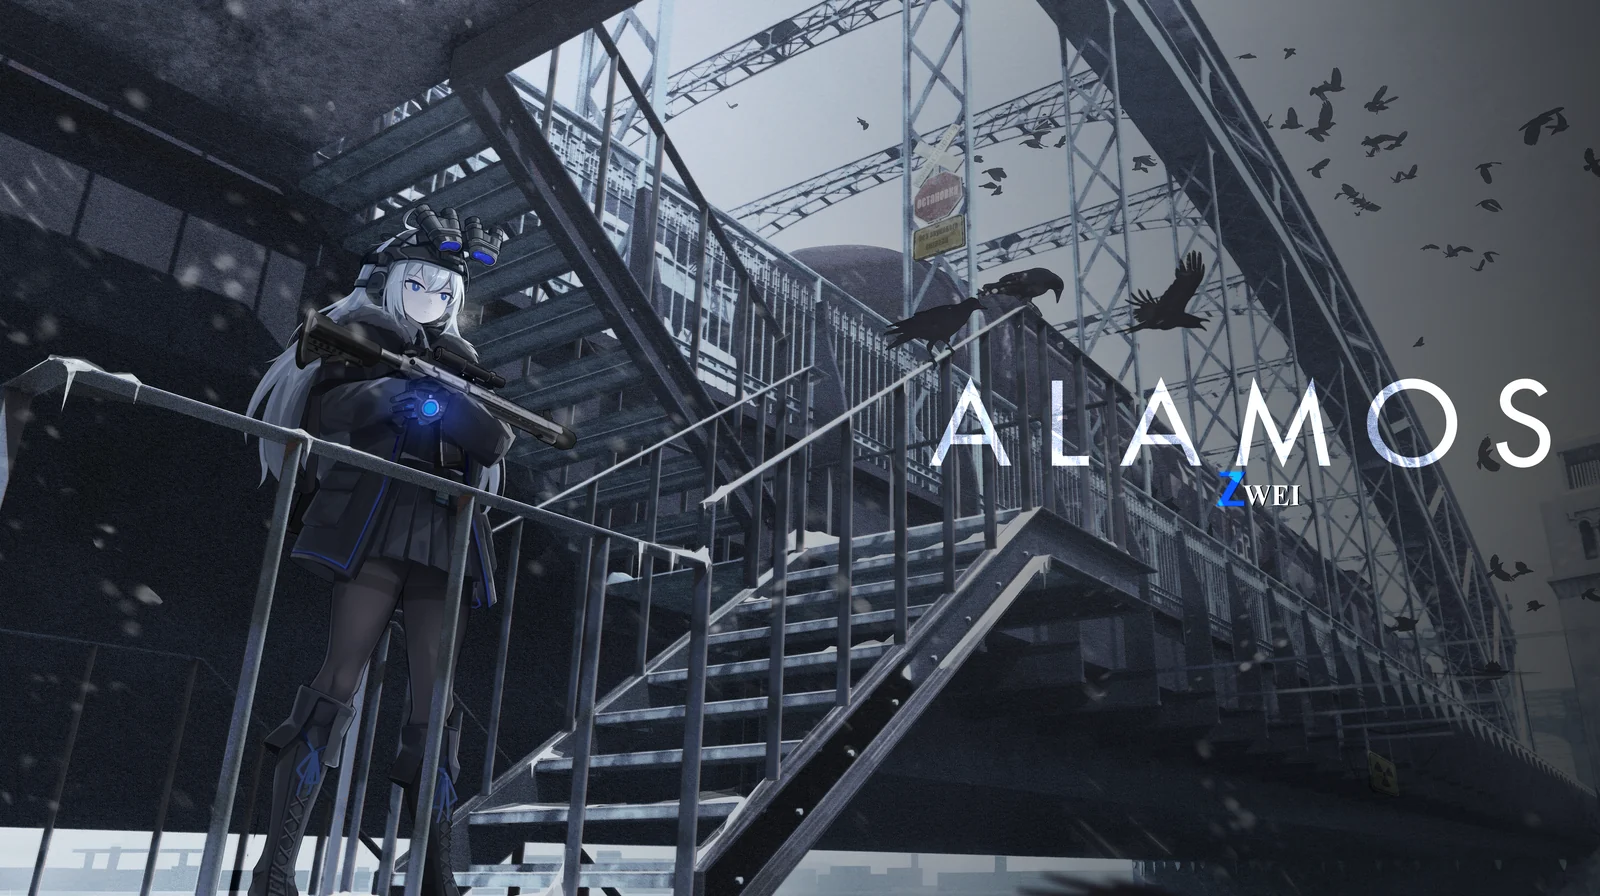
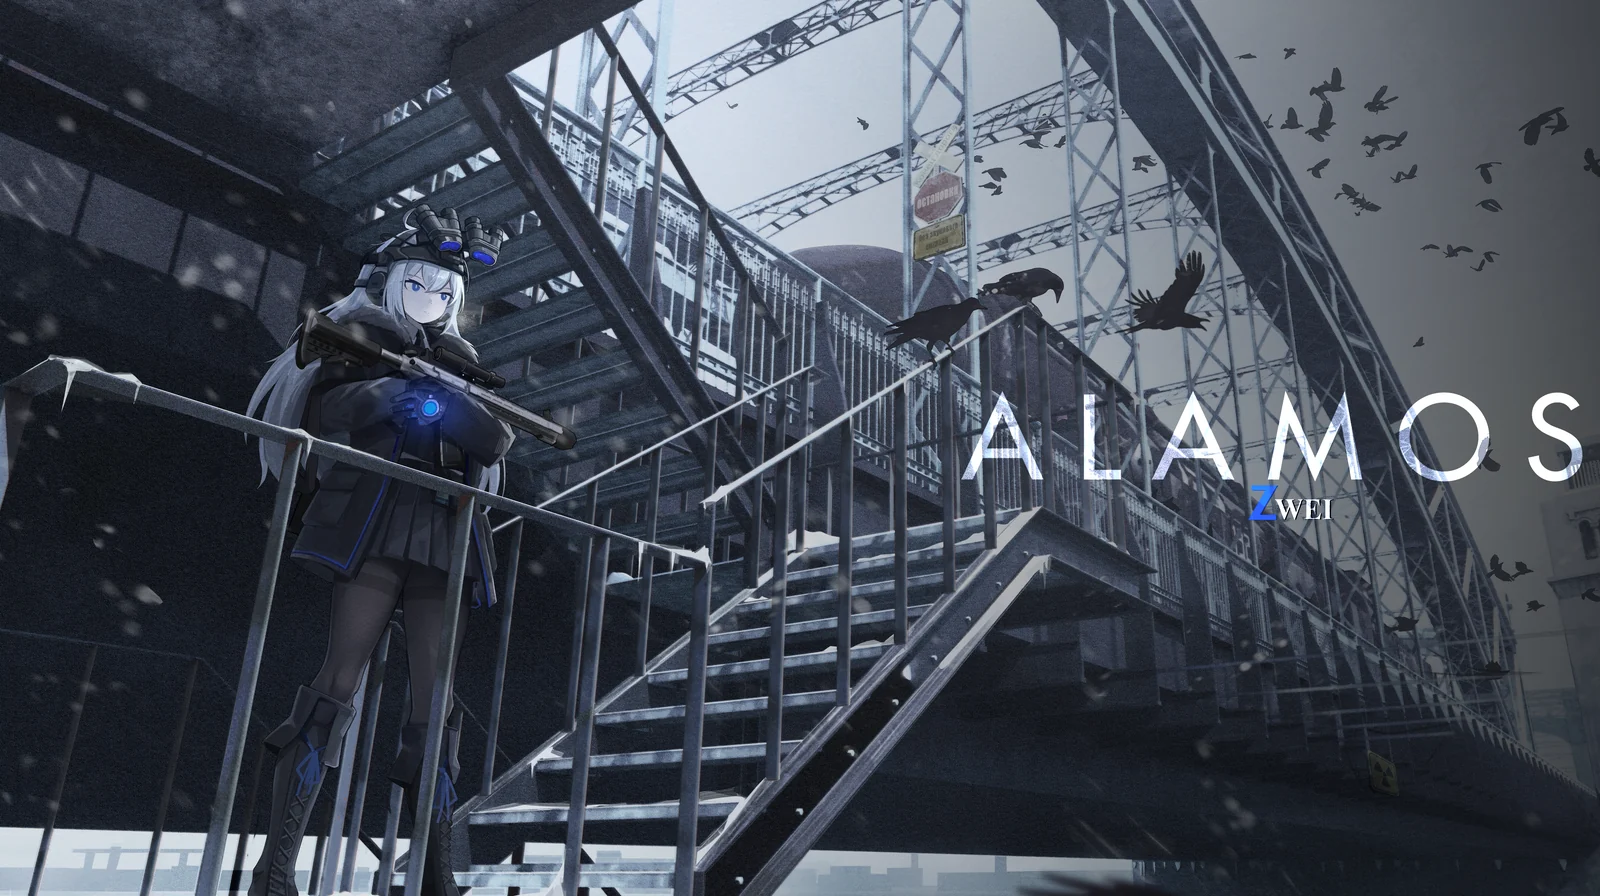
Update key visual lighting and improve mobile readability

Changed region(s): [[0.5625, 0.4062, 1.0, 0.5938]]

diff --git a/index.html b/index.html
@@ -1,6 +1,6 @@
-<!doctype html><html lang="zh-CN"><head><meta charset="utf-8"><meta name="viewport" content="width=device-width,initial-scale=1"><meta name="theme-color" content="#0a1119"><meta name="description" content="ALAMOS: ZWEI 项目情报站。北德文斯克、冰星防卫与尚未揭开的秘密。"><title>ALAMOS: ZWEI — 项目情报站</title><link rel="stylesheet" href="site.css?v=drift-dock-off-20260922"></head><body>
+<!doctype html><html lang="zh-CN"><head><meta charset="utf-8"><meta name="viewport" content="width=device-width,initial-scale=1"><meta name="theme-color" content="#0a1119"><meta name="description" content="ALAMOS: ZWEI 项目情报站。北德文斯克、冰星防卫与尚未揭开的秘密。"><title>ALAMOS: ZWEI — 项目情报站</title><link rel="stylesheet" href="site.css?v=mobile-20260928"></head><body>
 
-<main><section id="home" class="hero"><img class="hero-bg" src="assets/hero-kv2-static-1600.webp?v=kv2-root-20260922" srcset="assets/hero-kv2-static-960.webp?v=kv2-root-20260922 960w, assets/hero-kv2-static-1600.webp?v=kv2-root-20260922 1600w, assets/hero-kv2-static-2400.webp?v=kv2-root-20260922 2400w" sizes="(max-width:760px) 180svh, 100vw" alt="冰雪中的工业阶梯、持枪行动者与飞鸟" loading="eager" fetchpriority="high"><div class="hero-color-mark" aria-hidden="true"></div><div class="hero-content"><p class="hero-sub">NEXT GEN ROLE-PLAY SHOOTER</p><a class="hero-link" href="#characters">浏览情报 <span>↓</span></a></div><div class="hero-bottom"><span>SEVERODVINSK / ARCTIC REGION</span><span>SCROLL TO EXPLORE <b>↓</b></span></div></section>
+<main><section id="home" class="hero"><img class="hero-bg" src="assets/hero-kv2-static-1600.webp?v=kv2-light-20260928" srcset="assets/hero-kv2-static-960.webp?v=kv2-light-20260928 960w, assets/hero-kv2-static-1600.webp?v=kv2-light-20260928 1600w, assets/hero-kv2-static-2400.webp?v=kv2-light-20260928 2400w" sizes="100vw" width="2400" height="1344" alt="冰雪中的工业阶梯、持枪行动者与飞鸟" loading="eager" fetchpriority="high"><div class="hero-color-mark" aria-hidden="true"></div><div class="hero-content"><p class="hero-sub">NEXT GEN ROLE-PLAY SHOOTER</p><a class="hero-link" href="#characters">浏览情报 <span>↓</span></a></div><div class="hero-bottom"><span>SEVERODVINSK / ARCTIC REGION</span><span>SCROLL TO EXPLORE <b>↓</b></span></div></section>
 <section id="story" class="story"><div class="section-kicker"><span>01 / WORLD</span><span>AFTER THE COLD WAR</span></div><div class="story-opening"><p class="micro">WORLD</p><h2>世界</h2><p>核事故引发的大爆炸终结了冷战，半个世界沦为废土。</p><p>60年后，脱胎于冷战双方的新势力开始争夺遗留科技与新秩序的霸权。各大私营军事公司的佣兵，通过对污染区的勘察和博弈，逐渐走上世界的舞台。</p><div class="scene-controls" role="group" aria-label="切换世界影像"><button id="world-prev" aria-label="上一张世界影像">←</button><span id="world-count" aria-live="polite">01 / 02</span><button id="world-next" aria-label="下一张世界影像">→</button></div></div></section>
 <section id="characters" class="personnel"><div class="section-kicker"><span>02 / PERSONNEL ARCHIVES</span><span>人物与阵营</span></div><div class="section-top"><div><p class="micro">PERSONNEL</p><h2>人物</h2></div></div><div id="faction-tabs" class="faction-tabs" role="tablist" aria-label="选择阵营"></div><div id="faction-panel" role="tabpanel"><div class="faction-intro"><p id="faction-description"></p><span id="faction-count"></span></div><div id="person-tabs" class="person-tabs archive-roster" role="tablist" aria-label="选择人物档案"></div><div id="archive-person" class="person-stage" role="tabpanel"></div></div></section>
 <div class="region"><img class="region-bg" src="assets/web/lib-09-large-1600.webp" srcset="assets/web/lib-09-large-1600.webp 1600w, assets/web/lib-09-large-2400.webp 2400w" sizes="(max-width:760px) 180svh, 100vw" alt="北德文斯克雪原与塔架" loading="lazy"><div class="region-shade"></div><div class="region-caption"><p class="micro">ARCTIC / SEVERODVINSK</p><h3>北德文斯克</h3><p>由于不明事故，冰星防卫（IND）仅剩余一名新晋外勤员工前往调查情报称欧洲地区可能仅存一座的完整核反应堆。</p><p>其位于前苏联最大的造船之城，也曾坐落世界最大核潜艇的生产基地——北德文斯克。</p></div><div class="scene-controls" role="group" aria-label="切换城市影像"><button id="scene-prev" aria-label="上一张城市影像">←</button><span id="scene-count" aria-live="polite">01 / 08</span><button id="scene-next" aria-label="下一张城市影像">→</button></div></div>

diff --git a/site.css b/site.css
@@ -1118,7 +1118,7 @@ html {
 
 /* Fit the whole painting without letterboxing; the section follows its ratio. */
 .hero { height:auto; min-height:0; max-height:none; aspect-ratio:25/14; display:block; }
-.hero::before { content:""; position:absolute; inset:0; background:url("assets/hero-kv2-static-1600.webp?v=kv2-root-20260922") center/100% 100% no-repeat; pointer-events:none; }
+.hero::before { content:""; position:absolute; inset:0; background:url("assets/hero-kv2-static-1600.webp?v=kv2-light-20260928") center/100% 100% no-repeat; pointer-events:none; }
 .hero-bg { inset:0; width:100%; height:100%; object-fit:fill; object-position:center; transform:translate3d(var(--drift-x,0px),var(--drift-y,0px),0); }
 .hero-content { top:50%; bottom:auto; left:var(--pad); padding:0; width:auto; transform:translateY(-50%); }
 .hero-snow { position:absolute; inset:0; width:100%; height:100%; pointer-events:none; z-index:1; }
@@ -4750,4 +4750,35 @@ body.archive-switcher-open {
   .section-top .signal-chapter {
     font-size: 48px;
   }
+}
+
+
+/* Mobile readability without cropping the original title-bearing key visual. */
+html { -webkit-text-size-adjust:100%; text-size-adjust:100%; }
+@media (max-width:760px) {
+  .hero-content { top:auto; bottom:32px; left:16px; transform:none; }
+  .hero-sub { font-size:9px; line-height:1.5; letter-spacing:.04em; margin-bottom:6px; }
+  .hero-link { min-height:44px; font-size:12px; gap:14px; padding-left:12px; }
+  .hero-link>span { width:44px; min-height:44px; font-size:20px; }
+  .hero-bottom { left:16px; right:16px; bottom:7px; font-size:8px; }
+  .hero-bottom>span:last-child { display:none; }
+  .hero-color-mark { left:16px; }
+  .person-copy,.roster-card-copy,.faction-tabs>button>span { min-width:0; }
+  .person-copy h3,.person-en,.affiliation small,.roster-card-copy strong { overflow-wrap:anywhere; }
+  .person-copy h3 { font-size:clamp(25px,7.2vw,32px); }
+  .faction-tabs>button { padding:10px 9px; gap:8px; }
+  .variant button,.outline-link { min-height:44px; }
+  .album-toolbar { flex-wrap:wrap; gap:6px 10px; }
+  .album-controls { margin-left:auto; }
+  .album-hint { font-size:11px; }
+  .viewer-bar { padding-top:max(8px,env(safe-area-inset-top)); }
+  .viewer-bar>div { gap:8px; flex-wrap:wrap; }
+  .viewer-bar button,.viewer-bar a { min-height:44px; }
+  button,a,summary { touch-action:manipulation; }
+}
+@media (max-width:380px) {
+  .entry-previews img:nth-child(n+2) { display:none; }
+  .dossier-entry>summary { gap:8px; }
+  .viewer-bar { padding-left:10px; padding-right:10px; }
+  .viewer-bar>div { gap:6px; }
 }

diff --git a/styles/80-mobile.css b/styles/80-mobile.css
@@ -1,0 +1,29 @@
+/* Mobile readability without cropping the original title-bearing key visual. */
+html { -webkit-text-size-adjust:100%; text-size-adjust:100%; }
+@media (max-width:760px) {
+  .hero-content { top:auto; bottom:32px; left:16px; transform:none; }
+  .hero-sub { font-size:9px; line-height:1.5; letter-spacing:.04em; margin-bottom:6px; }
+  .hero-link { min-height:44px; font-size:12px; gap:14px; padding-left:12px; }
+  .hero-link>span { width:44px; min-height:44px; font-size:20px; }
+  .hero-bottom { left:16px; right:16px; bottom:7px; font-size:8px; }
+  .hero-bottom>span:last-child { display:none; }
+  .hero-color-mark { left:16px; }
+  .person-copy,.roster-card-copy,.faction-tabs>button>span { min-width:0; }
+  .person-copy h3,.person-en,.affiliation small,.roster-card-copy strong { overflow-wrap:anywhere; }
+  .person-copy h3 { font-size:clamp(25px,7.2vw,32px); }
+  .faction-tabs>button { padding:10px 9px; gap:8px; }
+  .variant button,.outline-link { min-height:44px; }
+  .album-toolbar { flex-wrap:wrap; gap:6px 10px; }
+  .album-controls { margin-left:auto; }
+  .album-hint { font-size:11px; }
+  .viewer-bar { padding-top:max(8px,env(safe-area-inset-top)); }
+  .viewer-bar>div { gap:8px; flex-wrap:wrap; }
+  .viewer-bar button,.viewer-bar a { min-height:44px; }
+  button,a,summary { touch-action:manipulation; }
+}
+@media (max-width:380px) {
+  .entry-previews img:nth-child(n+2) { display:none; }
+  .dossier-entry>summary { gap:8px; }
+  .viewer-bar { padding-left:10px; padding-right:10px; }
+  .viewer-bar>div { gap:6px; }
+}

diff --git a/styles/10-hero.css b/styles/10-hero.css
@@ -608,7 +608,7 @@
 
 /* Fit the whole painting without letterboxing; the section follows its ratio. */
 .hero { height:auto; min-height:0; max-height:none; aspect-ratio:25/14; display:block; }
-.hero::before { content:""; position:absolute; inset:0; background:url("assets/hero-kv2-static-1600.webp?v=kv2-root-20260922") center/100% 100% no-repeat; pointer-events:none; }
+.hero::before { content:""; position:absolute; inset:0; background:url("assets/hero-kv2-static-1600.webp?v=kv2-light-20260928") center/100% 100% no-repeat; pointer-events:none; }
 .hero-bg { inset:0; width:100%; height:100%; object-fit:fill; object-position:center; transform:translate3d(var(--drift-x,0px),var(--drift-y,0px),0); }
 .hero-content { top:50%; bottom:auto; left:var(--pad); padding:0; width:auto; transform:translateY(-50%); }
 .hero-snow { position:absolute; inset:0; width:100%; height:100%; pointer-events:none; z-index:1; }

diff --git a/README.md b/README.md
@@ -4,7 +4,7 @@
 
 ## 上传到自己的 GitHub 仓库
 
-站点约 42 MiB，最大单个文件约 1.81 MiB，符合 GitHub 网页单文件 25 MiB 的限制。25 MiB 指单个文件，不是整站总大小；网页每批最多上传 100 个文件。命令行普通 Git 单文件上限为 100 MiB。无需为当前站点使用 Git LFS。
+站点约 43.7 MiB，最大单个文件约 1.81 MiB，符合 GitHub 网页单文件 25 MiB 的限制。25 MiB 指单个文件，不是整站总大小；网页每批最多上传 100 个文件。命令行普通 Git 单文件上限为 100 MiB。无需为当前站点使用 Git LFS。
 
 官方说明：https://docs.github.com/en/repositories/working-with-files/managing-files/adding-a-file-to-a-repository
 
@@ -17,7 +17,9 @@
 
 不要只上传 ZIP；网页需要展开后的目录。外部回退 ZIP、ALMS 原始 PNG/PSD、回收站里的历史版本都不属于上传内容。.gitignore 仅对 Git 提交生效，无法阻止网页手工拖拽上传。
 
-仅上传仓库不等于公开网站，未来需要在自己的仓库中另行启用静态托管。本次只整理本地文件，没有连接 GitHub 或创建部署。
+当前仓库：https://github.com/CeresCeres/alamos
+
+GitHub Pages：https://ceresceres.github.io/alamos/ 。更新 main 分支后，由现有 Pages 配置发布。
 
 ## 后续更新
 
@@ -28,3 +30,9 @@
 - 上传之前：python tools/check_site.py；该工具检查缺失引用、闲置图片、总大小与超过 25 MiB 的文件，不会删除文件。
 
 原画和回退压缩包放在站点文件夹外；站点中每张作品只保留当前需要的展示、高清和响应式版本。更新图片后同步数据与 index.html 的脚本版本，避免旧缓存。Git 自身会记录已提交历史，不必再上传带日期的整站副本。
+
+## 首页素材与手机适配（2026-09-28）
+
+首页使用更新后的 Key Vision2：WebP 宽度 960 / 1600 / 2400，质量 82 / 86 / 86，Lanczos 等比缩放、method=6。三档共约 0.87 MiB；原始 PNG 与回退备份留在站点之外。
+
+移动端样式集中在 styles/80-mobile.css，保留首页原图比例及完整标题，增强按钮、文字、长姓名换行和图册操作。修改后运行 tools/build_styles.py。首页图片与样式已有独立缓存版本号。
